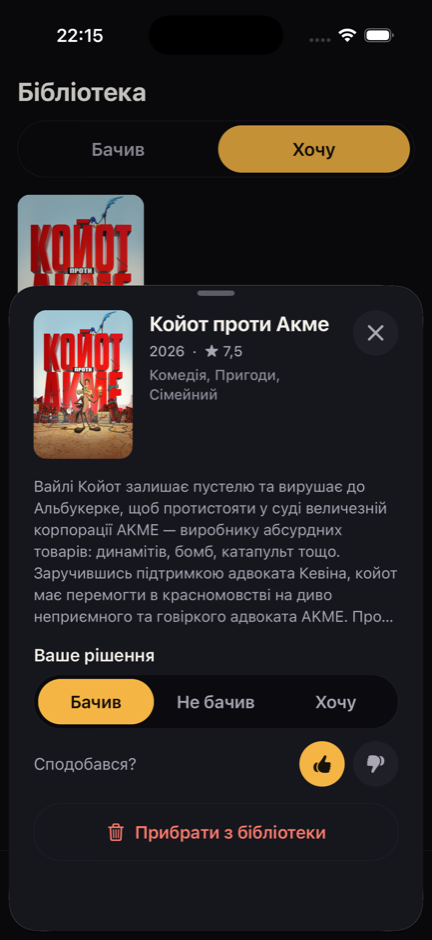
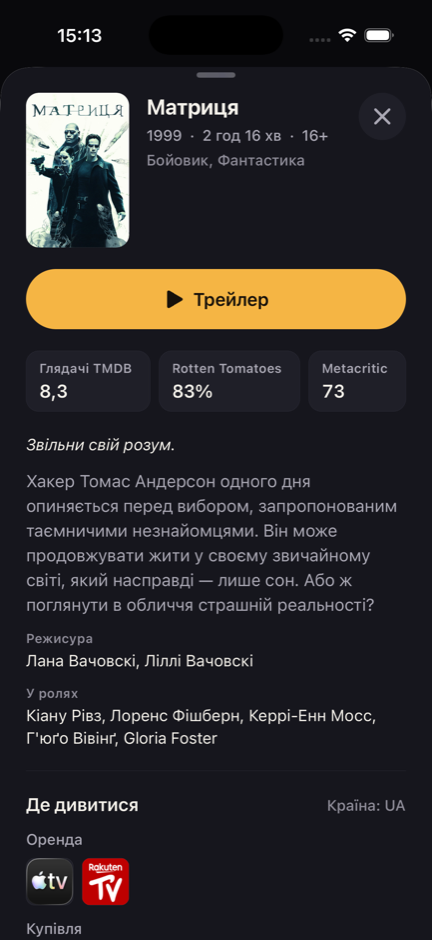
docs: document phase 1.5 and mark it done

diff --git a/docs/ARCHITECTURE.md b/docs/ARCHITECTURE.md
@@ -98,6 +98,7 @@ gets the standard status text, so user input is never echoed back.
 | `library`   | The caller's seen / want-to-watch lists, keyset-paginated, served from the catalog.         |
 | `catalog`   | Stores movies the API has served (validated TMDB data only), so decisions can reference it. |
 | `tmdb`      | `TmdbClient` — the only code that talks to TMDB. Fixed, typed methods; no generic proxy.    |
+| `wikidata`  | Critics' scores from Wikidata's SPARQL endpoint: one fixed query, best effort, cached.      |
 | `movies`    | `/movies/deck`: orchestration (`MoviesService`) and pure TMDB → `MovieCard` mapping.        |
 | `health`    | `/health` for uptime checks (public, not rate-limited).                                     |
 
@@ -111,6 +112,7 @@ public.
 | `POST /auth/anonymous`          | Public. Creates an anonymous account; returns a token pair.    |
 | `POST /auth/refresh`            | Public. Rotates a refresh token; returns a new pair.           |
 | `GET /movies/deck`              | A page of swipe cards, without movies the user already sorted. |
+| `GET /movies/:movieId/details`  | The decision card: trailer, critics, facts, where to watch.    |
 | `GET /me` · `PATCH /me`         | Profile; `PATCH` saves the app language.                       |
 | `DELETE /me`                    | Deletes the account, its tokens and decisions.                 |
 | `PUT /me/decisions/:movieId`    | Saves seen / not seen / want (and "liked" for seen).           |
@@ -198,17 +200,25 @@ erDiagram
 
 ### Upstream calls and caching
 
-| What                | Policy                                                                     |
-| ------------------- | -------------------------------------------------------------------------- |
-| Discover pages      | Cached 10 min per `(locale, page)`, max 200 entries, successes only.       |
-| Genre lists         | Cached 24 h per locale; a failure is cached for 60 s, then retried.        |
-| Concurrent requests | Identical in-flight requests share a single upstream call.                 |
-| Timeouts / size     | `TMDB_TIMEOUT_MS` (default 5 s) per call; responses capped at 2 MB.        |
-| Redirects           | Never followed, so the token can only ever reach `TMDB_BASE_URL`.          |
-| Partial data        | Invalid movies are dropped individually; a page fails only if all are bad. |
-| Missing genres      | The deck is still served, cards just have no genre names.                  |
+| What                | Policy                                                                                           |
+| ------------------- | ------------------------------------------------------------------------------------------------ |
+| Discover pages      | Cached 10 min per `(locale, page)`, max 200 entries, successes only.                             |
+| Genre lists         | Cached 24 h per locale; a failure is cached for 60 s, then retried.                              |
+| Concurrent requests | Identical in-flight requests share a single upstream call.                                       |
+| Timeouts / size     | `TMDB_TIMEOUT_MS` (default 5 s) per call; responses capped at 2 MB.                              |
+| Redirects           | Never followed, so the token can only ever reach `TMDB_BASE_URL`.                                |
+| Partial data        | Invalid movies are dropped individually; a page fails only if all are bad.                       |
+| Missing genres      | The deck is still served, cards just have no genre names.                                        |
+| Movie details       | One appended TMDB call per `(movie, language)`, cached 24 h; the region is applied when mapping. |
+| Critics' scores     | Wikidata, cached 7 days per movie; a failure gives empty scores and is cached for 10 min.        |
 
-The library is served from the catalog, so it makes no per-movie TMDB calls.
+The library is served from the catalog, so it makes no per-movie TMDB calls. Movie details save
+the movie to the catalog too, so a decision can follow even for a movie that never appeared in a
+deck (e.g. opened from a deep link).
+
+**Wikidata.** The SPARQL query is fixed; its only variable is the validated integer TMDB id. Scores
+are parsed from "93%" (Rotten Tomatoes) and "81/100" (Metacritic), latest statement wins, and they
+are shown as text with their source, without third-party logos.
 
 ### Rate limits
 
@@ -227,36 +237,39 @@ shared store (e.g. Redis) — not needed at the current scale.
 
 ## Mobile app (`apps/mobile`)
 
-| Area        | Approach                                                                                                                                                                                                                                                                                     |
-| ----------- | -------------------------------------------------------------------------------------------------------------------------------------------------------------------------------------------------------------------------------------------------------------------------------------------- |
-| Navigation  | Expo Router (file-based routes in `src/app/`): tabs Deck and Library, a movie detail sheet, About. Unknown deep links redirect to the deck.                                                                                                                                                  |
-| Swiping     | Reanimated + Gesture Handler: right = seen, left = not seen, up = want; buttons and screen-reader actions do the same. Saves are optimistic with retries; undo restores the card and deletes the decision.                                                                                   |
-| Server data | TanStack Query: infinite deck query per language (the server excludes sorted movies, so the deck always starts at the first undecided one); library pages by cursor.                                                                                                                         |
-| Session     | `src/lib/session.ts`: anonymous sign-in on first launch; refresh token in `expo-secure-store` (this device only, readable while unlocked); access token in memory; one shared refresh for concurrent 401s. Only a definite 401 on refresh starts a new account — a network error never does. |
-| Networking  | `src/lib/http.ts`: 10 s timeout, response validated against the shared contract, typed errors (`unreachable`, `unauthorized`, `server`, `invalid-response`, `config`); error bodies never read or logged; HTTPS required in release builds.                                                  |
-| i18n        | Typed dictionaries (`uk.ts` is the source of truth; `en.ts` must have the same keys); device language by default; the in-app choice is saved to the account (`PATCH /me`).                                                                                                                   |
-| UI          | Design tokens in `src/theme/` (colours, spacing, typography); dark, poster-first layout; WCAG AA contrast; Dynamic Type and Reduce Motion respected.                                                                                                                                         |
+| Area        | Approach                                                                                                                                                                                                                                                                                                                                                                   |
+| ----------- | -------------------------------------------------------------------------------------------------------------------------------------------------------------------------------------------------------------------------------------------------------------------------------------------------------------------------------------------------------------------------- |
+| Navigation  | Expo Router (file-based routes in `src/app/`): tabs Deck and Library, a movie detail sheet, About. Unknown deep links redirect to the deck.                                                                                                                                                                                                                                |
+| Swiping     | Reanimated + Gesture Handler: right = seen, left = not seen, up = want; buttons and screen-reader actions do the same. Saves are optimistic with retries; undo restores the card and deletes the decision.                                                                                                                                                                 |
+| Server data | TanStack Query: infinite deck query per language (the server excludes sorted movies, so the deck always starts at the first undecided one); library pages by cursor.                                                                                                                                                                                                       |
+| Session     | `src/lib/session.ts`: anonymous sign-in on first launch; refresh token in `expo-secure-store` (this device only, readable while unlocked); access token in memory; one shared refresh for concurrent 401s. Only a definite 401 on refresh starts a new account — a network error never does.                                                                               |
+| Networking  | `src/lib/http.ts`: 10 s timeout, response validated against the shared contract, typed errors (`unreachable`, `unauthorized`, `server`, `invalid-response`, `config`); error bodies never read or logged; HTTPS required in release builds.                                                                                                                                |
+| i18n        | Typed dictionaries (`uk.ts` is the source of truth; `en.ts` must have the same keys); device language by default; the in-app choice is saved to the account (`PATCH /me`).                                                                                                                                                                                                 |
+| UI          | Design tokens in `src/theme/` (colours, spacing, typography); dark, poster-first layout; WCAG AA contrast; Dynamic Type and Reduce Motion respected.                                                                                                                                                                                                                       |
+| Movie sheet | `src/app/movie/[id].tsx`: the decision card for any movie id (deck, library or deep link). Opened from the deck, its buttons sort the top card through the deck's own code (`src/lib/deck-bridge.ts`), so undo and the "liked?" prompt behave as for a swipe. The device region (`src/lib/region.ts`, validated) selects age ratings and where-to-watch.                   |
+| Trailer     | `src/app/trailer/[key].tsx`: YouTube's official embed (`youtube-nocookie.com`) in a `react-native-webview`. The app builds the page itself from a validated video id, with our app id as the Referer YouTube requires; navigation is locked to the embed, YouTube links open outside the app, and there is no JavaScript bridge into the app. Nothing overlays the player. |
 
 ## Security model
 
-| Threat                                 | Mitigation                                                                                                        |
-| -------------------------------------- | ----------------------------------------------------------------------------------------------------------------- |
-| Token extracted from the app bundle    | No secrets in the app; only `EXPO_PUBLIC_API_URL` is inlined.                                                     |
-| Token leaked via logs or URLs          | Sent only as a header; never logged; boot errors omit values.                                                     |
-| Secret committed to git                | `.gitignore` + pre-commit hook (blocks env files, runs gitleaks) + CI scan of full history.                       |
-| Our API abused as a free TMDB proxy    | Fixed endpoints only, validated parameters, authentication, per-user rate limit, caching.                         |
-| Malicious or broken upstream data      | Size cap, zod parsing, strict poster-path and URL rules, mapping to own types.                                    |
-| Information disclosure in errors       | Uniform error body; no stack traces, upstream bodies or echoed input.                                             |
-| Access to another user's data (IDOR)   | User id only from the verified token; every query is scoped to it; tests try cross-user access.                   |
-| Forged or tampered access token        | Algorithm, issuer, audience and type pinned; 64+ character secret validated at boot.                              |
-| Stolen refresh token                   | Kept in the OS keychain; rotated on every use; reuse revokes the family; stored server-side as a hash only.       |
-| Database leak                          | No usable tokens in it (hashes only); no personal data in anonymous accounts.                                     |
-| Responses cached by proxies            | `Cache-Control: no-store` on every response.                                                                      |
-| Oversized or unexpected request bodies | JSON only (other types get 415), 16 KB cap (413); form and multipart parsers never run.                           |
-| Account farming                        | Anonymous sign-up limited to 10 per hour per IP.                                                                  |
-| Database exposed on the network        | Local PostgreSQL bound to 127.0.0.1; generated password; all queries parameterised by Prisma.                     |
-| Compromised npm package                | pnpm blocks install scripts, delays new releases by 24 h, fails on provenance downgrades; lockfile + audit in CI. |
-| Secrets read by AI coding tools        | Deny rules and a pre-tool hook block reading `.env` files (`.claude/`).                                           |
+| Threat                                 | Mitigation                                                                                                                      |
+| -------------------------------------- | ------------------------------------------------------------------------------------------------------------------------------- |
+| Token extracted from the app bundle    | No secrets in the app; only `EXPO_PUBLIC_API_URL` is inlined.                                                                   |
+| Token leaked via logs or URLs          | Sent only as a header; never logged; boot errors omit values.                                                                   |
+| Secret committed to git                | `.gitignore` + pre-commit hook (blocks env files, runs gitleaks) + CI scan of full history.                                     |
+| Our API abused as a free TMDB proxy    | Fixed endpoints only, validated parameters, authentication, per-user rate limit, caching.                                       |
+| Malicious or broken upstream data      | Size cap, zod parsing, strict poster-path and URL rules, mapping to own types.                                                  |
+| Information disclosure in errors       | Uniform error body; no stack traces, upstream bodies or echoed input.                                                           |
+| Access to another user's data (IDOR)   | User id only from the verified token; every query is scoped to it; tests try cross-user access.                                 |
+| Forged or tampered access token        | Algorithm, issuer, audience and type pinned; 64+ character secret validated at boot.                                            |
+| Stolen refresh token                   | Kept in the OS keychain; rotated on every use; reuse revokes the family; stored server-side as a hash only.                     |
+| Embedded web content (trailers)        | A page the app builds from a validated id; navigation locked to the YouTube embed; CSP; no JavaScript bridge, no injected code. |
+| Database leak                          | No usable tokens in it (hashes only); no personal data in anonymous accounts.                                                   |
+| Responses cached by proxies            | `Cache-Control: no-store` on every response.                                                                                    |
+| Oversized or unexpected request bodies | JSON only (other types get 415), 16 KB cap (413); form and multipart parsers never run.                                         |
+| Account farming                        | Anonymous sign-up limited to 10 per hour per IP.                                                                                |
+| Database exposed on the network        | Local PostgreSQL bound to 127.0.0.1; generated password; all queries parameterised by Prisma.                                   |
+| Compromised npm package                | pnpm blocks install scripts, delays new releases by 24 h, fails on provenance downgrades; lockfile + audit in CI.               |
+| Secrets read by AI coding tools        | Deny rules and a pre-tool hook block reading `.env` files (`.claude/`).                                                         |
 
 ## Testing strategy
 

diff --git a/docs/design/phase-1-5.md b/docs/design/phase-1-5.md
@@ -1,0 +1,115 @@
+# Phase 1.5 design — decide faster
+
+Status: **accepted**. Roadmap: [../ROADMAP.md](../ROADMAP.md).
+
+## Goals
+
+- Everything people use to decide between "want" and "not interested", one tap away from any card:
+  trailer, critics' scores, key facts and where to watch.
+- The trailer plays inside the app.
+- Details work for any movie id, so deep links and the library no longer depend on data already on
+  screen.
+
+**Non-goals:** AI summaries of reviews, recommendations, a vertical trailer feed.
+
+## User experience
+
+Tapping a deck card (or its "Details" button) or a library poster opens the **movie sheet**:
+
+1. **Header:** poster, title, year · runtime · age rating.
+2. **▶ Trailer:** opens a full-screen player. Hidden when the movie has no trailer.
+3. **Ratings row,** text only, each labelled with its source: "TMDB audience 7.5", "Rotten
+   Tomatoes 93%", "Metacritic 81". A score is left out when it is unknown.
+4. Tagline, overview, director(s), top cast.
+5. **Where to watch** in the device's country: streaming, rent and buy rows of provider logos,
+   credited "Data: JustWatch", and a link to TMDB's where-to-watch page (opens in the browser).
+   When there are no offers, a short "Not available to stream in your country" note.
+6. **Decision controls:**
+   - from the deck: Seen / Not seen / Want, which sort the top card and close the sheet;
+   - from the library: change or remove the decision, as today.
+
+## API
+
+`GET /api/v1/movies/:movieId/details?lang=uk&region=UA` → `MovieDetails`
+([contract](../../packages/shared/src/details.ts)).
+
+- Authenticated, with the default per-user rate limit.
+- `movieId` is validated with `MovieIdParamsSchema`, the query with `MovieDetailsQuerySchema`.
+
+**TMDB, one call per language:**
+
+- `GET /movie/{id}?language=<tag>&append_to_response=videos,credits,release_dates,watch/providers&include_video_language=<lang>,en`.
+- Field selection:
+  - **Trailer:** official YouTube trailers first, in the requested language, then in English.
+  - **Certification:** the region's, falling back to the US.
+  - **Watch options:** the region's entry in `watch/providers`.
+- A blank overview falls back to the English version of the same call, cached like any other.
+- TMDB 404 → our generic 404.
+- The movie is upserted into the catalog, so a decision can follow even for a movie that was never
+  in a deck.
+
+**Wikidata, critics' scores:**
+
+- A fixed SPARQL query (`wdt:P4947` = TMDB movie id, `p:P444` review scores, `pq:P447` = Rotten
+  Tomatoes `Q105584` or Metacritic `Q150248`). The only variable is the validated integer id.
+- Sent as GET to `https://query.wikidata.org/sparql` with a descriptive `User-Agent`, as Wikimedia's
+  policy requires.
+- The latest statement wins (`pq:P585`). "93%" → 93 and "81/100" → 81; other formats (e.g. the
+  "9/10" average rating) are ignored.
+- Best effort: a failure or timeout gives null scores and never fails the request.
+
+**Caching (in process):**
+
+- details per `(movieId, lang, region)`: 24 h;
+- Wikidata scores per movie: 7 days;
+- Wikidata failures: 10 minutes.
+
+**Security:**
+
+- the same rules as the deck: fixed upstream URLs built with `new URL()`, `redirect: 'manual'`,
+  timeouts, size caps, zod parsing, our own types only;
+- logos and posters only from `image.tmdb.org`, links only to `www.themoviedb.org`;
+- the YouTube id must match `^[A-Za-z0-9_-]{11}$`;
+- new upstream base URLs are env-configurable for tests only (https unless `NODE_ENV=test` and
+  localhost), like `TMDB_BASE_URL`.
+
+## Mobile
+
+- **Region:** the device's region from `expo-localization`, validated with `RegionSchema`, falling back
+  to `DEFAULT_REGION`.
+- **Trailer player:** `react-native-webview`, installed with `npx expo install`; the owner approved the
+  dependency.
+  - **Source:** `https://www.youtube-nocookie.com/embed/<id>?playsinline=1&rel=0`, built in the app
+    from the validated id.
+  - **Navigation:**
+    - `onShouldStartLoadWithRequest` allows only `www.youtube-nocookie.com/embed/…`;
+    - a tap on a YouTube link inside the player opens the YouTube app or browser instead (only
+      `youtube.com` / `youtu.be` hosts);
+    - everything else is blocked.
+  - **Isolation:**
+    - no `onMessage` bridge, no injected JavaScript, no multiple windows;
+    - `allowsInlineMediaPlayback`;
+    - YouTube's embed requirements for mobile WebViews (e.g. an HTTP Referer) are verified on the
+      simulator.
+- **Screen readers:**
+  - each score is announced with its source;
+  - provider logos have the provider name as their label;
+  - the player has a labelled close button.
+
+## Testing
+
+- **API unit tests:**
+  - trailer selection;
+  - certification fallback;
+  - Wikidata value parsing ("93%", "81/100", junk, several dates);
+  - the details mapper.
+- **API e2e tests** with fake TMDB and Wikidata servers:
+  - the contract;
+  - invalid ids and regions;
+  - TMDB 404;
+  - Wikidata down or slow (still 200);
+  - caching;
+  - the catalog upsert;
+  - no secrets in logs.
+- **Mobile:** typecheck, lint and a simulator run-through with screenshots, including the trailer
+  playing.

diff --git a/README.uk.md b/README.uk.md
@@ -22,7 +22,7 @@ Reelmark — мобільна кінобібліотека, яку ти збир
   <img src="docs/screenshots/swipe-uk.png" width="200" alt="Свайп угору — у список «Хочу»">
   <img src="docs/screenshots/liked-uk.png" width="200" alt="Питання «Сподобався?» після «Бачив»">
   <img src="docs/screenshots/library-uk.png" width="200" alt="Бібліотека переглянутих фільмів">
-  <img src="docs/screenshots/detail-uk.png" width="200" alt="Картка фільму зі збереженим рішенням">
+  <img src="docs/screenshots/detail-uk.png" width="200" alt="Картка рішення: трейлер, оцінки критиків, де подивитися">
 </p>
 
 ## Можливості
@@ -30,6 +30,8 @@ Reelmark — мобільна кінобібліотека, яку ти збир
 - **Сортуй свайпами**: вправо — бачив, вліво — не бачив, угору — хочу подивитися; для
   переглянутих — швидке «Сподобався?», скасування одним дотиком; кнопки й VoiceOver роблять те саме
 - **Особиста бібліотека** переглянутих і запланованих фільмів; рішення можна змінити чи прибрати
+- **Швидше вирішити**: картка фільму з трейлером (грає в застосунку), оцінками Rotten Tomatoes і
+  Metacritic, тривалістю, віковим обмеженням, акторами й тим, де подивитися у твоїй країні
 - **Без реєстрації**: анонімний акаунт створюється під час першого запуску; рішення зберігаються
   на сервері, а відсортовані фільми більше не з'являються в колоді
 - **Колода карток** популярних фільмів: постер, рік, рейтинг, жанри, опис
@@ -40,8 +42,8 @@ Reelmark — мобільна кінобібліотека, яку ти збир
 - **Доступність**: контраст WCAG AA, підписи для VoiceOver/TalkBack, великий шрифт, зменшений рух
 - **Безпека за задумом**: у застосунку немає жодних секретів — див. [Безпека](#безпека)
 
-**Статус:** рання розробка. Свайпи, акаунти й бібліотека (етап 1) готові; далі — картка
-рішення з трейлером і оцінками критиків (етап 1.5), див. [роадмап](docs/ROADMAP.md).
+**Статус:** свайпи, акаунти, бібліотека й картка рішення (етапи 1 і 1.5) готові, див.
+[роадмап](docs/ROADMAP.md).
 
 ## Архітектура
 

diff --git a/README.md b/README.md
@@ -31,7 +31,7 @@ builds your personal library.
   <img src="docs/screenshots/swipe-uk.png" width="200" alt="Swiping a movie up to the watchlist">
   <img src="docs/screenshots/liked-uk.png" width="200" alt="The &quot;Liked it?&quot; prompt after a seen movie">
   <img src="docs/screenshots/library-uk.png" width="200" alt="Library of seen movies">
-  <img src="docs/screenshots/detail-uk.png" width="200" alt="Movie detail sheet with the saved decision">
+  <img src="docs/screenshots/detail-uk.png" width="200" alt="Decision card: trailer, critics' scores and where to watch">
 </p>
 
 ## Features
@@ -39,6 +39,8 @@ builds your personal library.
 - **Swipe to sort**: right = seen, left = not seen, up = want to watch, with a quick "liked it?"
   for seen movies and one-tap undo; buttons and screen-reader actions do the same
 - **Personal library** of seen and want-to-watch movies; change or remove a decision anytime
+- **Decide faster**: a movie card with the trailer (played in the app), Rotten Tomatoes and
+  Metacritic scores, runtime, age rating, cast and where to watch in your country
 - **No sign-up wall**: an anonymous account is created on first launch; decisions sync to the
   server and sorted movies never come back to the deck
 - **Card deck** of popular movies with poster, year, rating, genres and overview
@@ -49,9 +51,8 @@ builds your personal library.
 - **Accessible**: WCAG AA contrast, screen-reader labels, Dynamic Type, Reduce Motion
 - **Secure by design**: the app holds no secrets — see [Security](#security)
 
-**Status:** early development. Swiping, accounts and the library (Phase 1) are complete;
-a decision card with trailers and critics' scores (Phase 1.5) is next — see the
-[roadmap](docs/ROADMAP.md).
+**Status:** swiping, accounts, the library and the decision card (Phases 1 and 1.5) are complete
+— see the [roadmap](docs/ROADMAP.md).
 
 ## Tech stack
 

diff --git a/docs/ROADMAP.md b/docs/ROADMAP.md
@@ -6,7 +6,7 @@ Reelmark is a learning and showcase project. Its scope ends with a polished, dem
 | ----- | ------------------------- | ------------------------------------------------------------- | ------- |
 | 0     | Foundation                | Browse a deck of popular movies in Ukrainian or English       | Done    |
 | 1     | Swipes, accounts, library | Swipe to sort movies; decisions are saved; a personal library | Done    |
-| 1.5   | Decide faster             | Trailer, critics' scores and key facts on every card          | Next    |
+| 1.5   | Decide faster             | Trailer, critics' scores and key facts on every card          | Done    |
 | 2     | Showcase polish           | A native build on a real phone and a demo anyone can watch    | Planned |
 
 ## Phase 1 — Swipes, accounts, library
@@ -21,6 +21,8 @@ Design: [design/phase-1.md](design/phase-1.md).
 - Account deletion (required by the App Store for apps with accounts).
 
 ## Phase 1.5 — Decide faster
+
+Design: [design/phase-1-5.md](design/phase-1-5.md).
 
 A poster, a rating and an overview are often not enough to decide between "want" and "not
 interested". The card gains what people actually use to decide:

diff --git a/docs/BACKLOG.md b/docs/BACKLOG.md
@@ -49,9 +49,12 @@ Known follow-ups, deliberately deferred. Code that depends on an item references
 
 ## Polish
 
-- TMDB logo on the About screen (TMDB attribution guidelines).
-- Movie detail outside the library (from the deck or a deep link): needs a per-movie endpoint; the
-  sheet currently uses library data already on screen.
+- **"Liked it?" prompt and failure toast are not drawn** on the current iOS simulator, although
+  they are laid out and announced (`src/components/deck-toast.tsx`, Reanimated `entering`). They
+  rendered on 2026-10-09; the Phase 1 code alone shows the same behaviour now, so suspect the
+  simulator/runtime. Check on a device first.
+- **Android check** of the trailer player (fullscreen video), the movie sheet and the deck.
+- **TMDB logo** on the About screen: TMDB's terms require the logo, not only the text notice.
 - Android dev/release builds need HTTPS or a cleartext exception for a local API.
 - Drop `vite-tsconfig-paths` from the API test setup (Vite 8 resolves tsconfig paths natively).
 - Evaluate Nest 12's built-in `app.useSecurityHeaders()` as a replacement for `helmet`.

diff --git a/docs/design/phase-1.md b/docs/design/phase-1.md
@@ -1,6 +1,6 @@
 # Phase 1 design — swipes, accounts, library
 
-Status: **proposed**. Roadmap: [../ROADMAP.md](../ROADMAP.md).
+Status: **implemented**. Roadmap: [../ROADMAP.md](../ROADMAP.md).
 
 ## Goals
 
